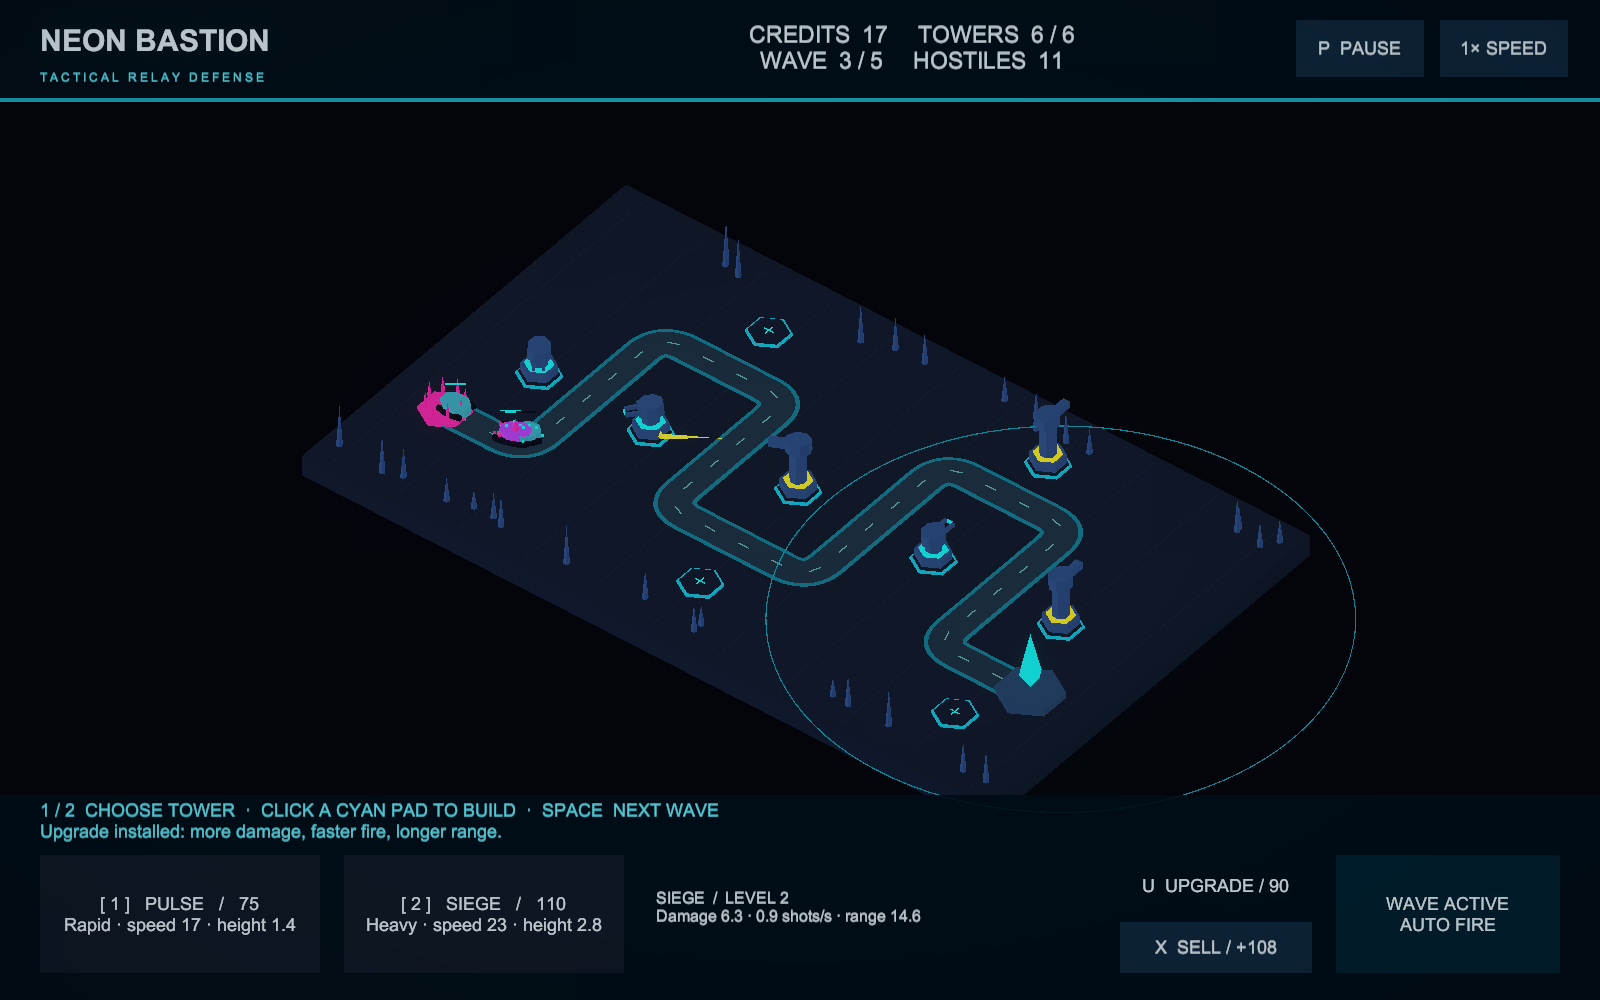
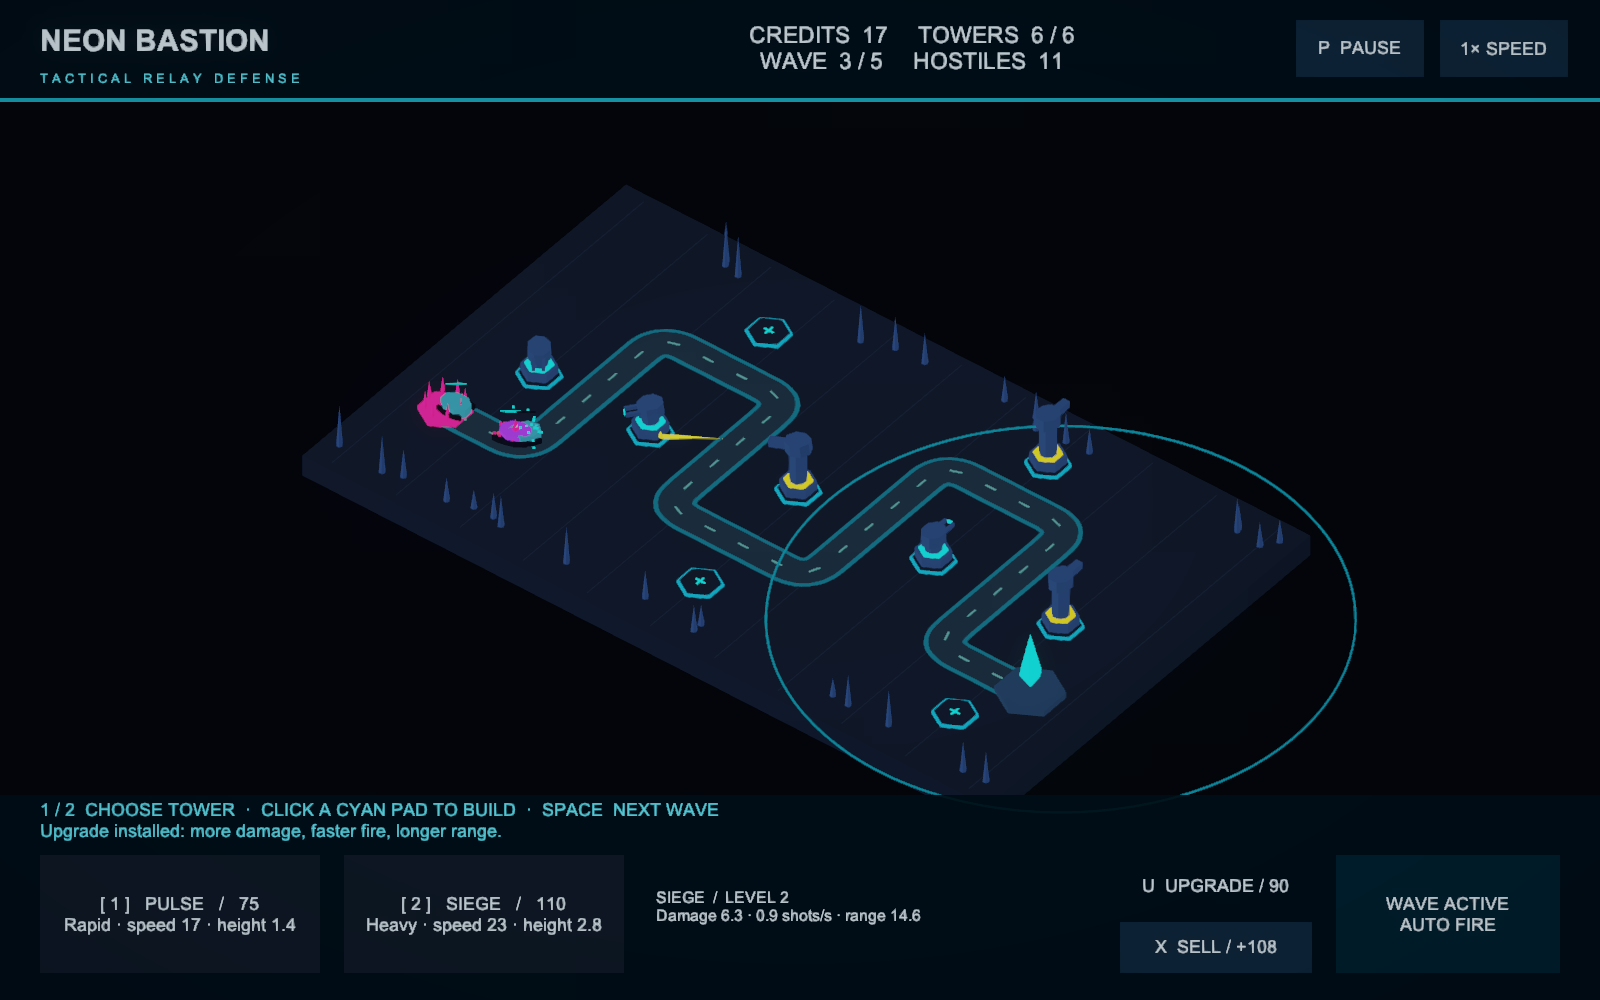
Improve native-resolution rendering and smooth neon edges

diff --git a/Assets/Defense/DefenseArt.cs b/Assets/Defense/DefenseArt.cs
@@ -157,7 +157,7 @@ public static class DefenseArt
         for(float distance=1;distance<game.Route.Length;distance+=2.1f)
         {
             Vector3 point=game.Route.Position(distance)+Vector3.up*.065f;
-            GameObject dash=Box(root,"Route dash",point,new Vector3(.07f,.02f,.65f),ColorMaterial("Route markers",new Color(.35f,.65f,.65f)));
+            GameObject dash=Box(root,"Route dash",point,new Vector3(.11f,.02f,.65f),ColorMaterial("Route markers",new Color(.35f,.65f,.65f)));
             dash.transform.rotation=Quaternion.LookRotation(game.Route.Tangent(distance));
         }
         for(int i=0;i<game.Pads.Length;i++)
@@ -165,8 +165,8 @@ public static class DefenseArt
             Vector3 position=game.Pads[i];
             Shape(root,"Build pad "+(i+1),"HexPlatform",position,new Vector3(1.2f,.25f,1.2f),ColorMaterial("Pad glow",new Color(.08f,.75f,.9f)));
             Shape(root,"Pad inset","HexPlatform",position+Vector3.up*.08f,new Vector3(1.05f,.25f,1.05f),ground);
-            Box(root,"Pad plus",position+Vector3.up*.16f,new Vector3(.6f,.02f,.07f),ColorMaterial("Pad symbols",Cyan));
-            Box(root,"Pad plus",position+Vector3.up*.17f,new Vector3(.07f,.02f,.6f),ColorMaterial("Pad symbols",Cyan));
+            Box(root,"Pad plus",position+Vector3.up*.16f,new Vector3(.6f,.02f,.11f),ColorMaterial("Pad symbols",Cyan));
+            Box(root,"Pad plus",position+Vector3.up*.17f,new Vector3(.11f,.02f,.6f),ColorMaterial("Pad symbols",Cyan));
         }
         Vector3 end=game.Route.Position(game.Route.Length), start=game.Route.Position(0);
         Shape(root,"Relay platform","HexPlatform",end+Vector3.up*.1f,new Vector3(1.8f,.8f,1.8f),ColorMaterial("Relay metal",new Color(.14f,.25f,.38f)));
@@ -184,7 +184,7 @@ public static class DefenseArt
             float z=(i%2==0 ? 1 : -1)*(10.8f+(float)random.NextDouble());
             Shape(root,"Border crystal","Spire",new Vector3(x,0,z),new Vector3(.3f,.5f+(float)random.NextDouble(),.3f),ColorMaterial("Scenery crystal",new Color(.16f,.28f,.5f)));
         }
-        for(int x=-20;x<=20;x+=4) Box(root,"Terrain circuit",new Vector3(x,-.035f,0),new Vector3(.025f,.02f,25),ColorMaterial("Grid",new Color(.085f,.14f,.22f)));
+        for(int x=-20;x<=20;x+=4) Box(root,"Terrain circuit",new Vector3(x,-.035f,0),new Vector3(.045f,.02f,25),ColorMaterial("Grid",new Color(.085f,.14f,.22f)));
         GameObject volumeObject=new GameObject("Neon glow volume");volumeObject.transform.SetParent(root,false);
         Volume volume=volumeObject.AddComponent<Volume>();volume.isGlobal=true;
         volume.profile=ScriptableObject.CreateInstance<VolumeProfile>();
@@ -195,7 +195,7 @@ public static class DefenseArt
     {
         GameObject root=new GameObject(name,typeof(LineRenderer));root.transform.SetParent(parent,false);
         LineRenderer line=root.GetComponent<LineRenderer>();line.useWorldSpace=true;line.sharedMaterial=ColorMaterial(name,color);
-        line.widthMultiplier=.06f;line.positionCount=97;
+        line.widthMultiplier=.11f;line.positionCount=97;
         return line;
     }
     public static void SetRing(LineRenderer ring,Vector3 center,float radius)

diff --git a/Assets/Defense/Editor/DefenseGameViewQuality.cs b/Assets/Defense/Editor/DefenseGameViewQuality.cs
@@ -1,0 +1,45 @@
+using System.Reflection;
+using UnityEditor;
+using UnityEngine;
+
+// Unity's low-resolution Game view can magnify every rendered pixel on Retina displays.
+// Keep this project sharp without changing the user's desktop display resolution.
+public static class DefenseGameViewQuality
+{
+    private const string SessionKey="NeonBastionNativeResolution";
+    [InitializeOnLoadMethod]
+    private static void Schedule()
+    {
+        if(Application.isBatchMode || SessionState.GetBool(SessionKey,false)) return;
+        EditorApplication.delayCall+=Apply;
+    }
+
+    [MenuItem("Tools/Neon Bastion/Sharpen Game View")]
+    public static void Apply()
+    {
+        System.Type type=typeof(EditorWindow).Assembly.GetType("UnityEditor.GameView");
+        if(type==null) return;
+        foreach(Object window in Resources.FindObjectsOfTypeAll(type))
+        {
+            var flags=BindingFlags.Instance|BindingFlags.Public|BindingFlags.NonPublic;
+            PropertyInfo lowResolution=type.GetProperty("lowResolutionForAspectRatios",flags);
+            if(lowResolution!=null && lowResolution.CanWrite) lowResolution.SetValue(window,false);
+            SerializedObject data=new SerializedObject(window);
+            SerializedProperty resolutions=data.FindProperty("m_LowResolutionForAspectRatios");
+            if(resolutions!=null && resolutions.isArray)
+                for(int i=0;i<resolutions.arraySize;i++)
+                {
+                    SerializedProperty item=resolutions.GetArrayElementAtIndex(i);
+                    if(item.propertyType==SerializedPropertyType.Boolean) item.boolValue=false;
+                    else if(item.propertyType==SerializedPropertyType.Integer) item.intValue=0;
+                }
+            SerializedProperty zoom=data.FindProperty("m_ZoomArea.m_Scale");
+            if(zoom!=null && zoom.propertyType==SerializedPropertyType.Vector2) zoom.vector2Value=Vector2.one;
+            SerializedProperty defaultZoom=data.FindProperty("m_defaultScale");
+            if(defaultZoom!=null && defaultZoom.propertyType==SerializedPropertyType.Float) defaultZoom.floatValue=1f;
+            data.ApplyModifiedPropertiesWithoutUndo();
+            ((EditorWindow)window).Repaint();
+        }
+        SessionState.SetBool(SessionKey,true);
+    }
+}

diff --git a/Assets/Defense/DefenseHUD.cs b/Assets/Defense/DefenseHUD.cs
@@ -15,7 +15,7 @@ public class DefenseHUD : MonoBehaviour
     public void Initialize(DefenseGame owner)
     {
         game=owner;font=Resources.GetBuiltinResource<Font>("LegacyRuntime.ttf");
-        Canvas canvas=gameObject.AddComponent<Canvas>();canvas.renderMode=RenderMode.ScreenSpaceOverlay;
+        Canvas canvas=gameObject.AddComponent<Canvas>();canvas.renderMode=RenderMode.ScreenSpaceOverlay;canvas.pixelPerfect=true;
         CanvasScaler scale=gameObject.AddComponent<CanvasScaler>();scale.uiScaleMode=CanvasScaler.ScaleMode.ScaleWithScreenSize;scale.referenceResolution=new Vector2(1440,900);scale.matchWidthOrHeight=.5f;
         gameObject.AddComponent<GraphicRaycaster>();
         Panel("Top rail",transform,0,.90f,1,1,surface);
@@ -79,7 +79,7 @@ public class DefenseHUD : MonoBehaviour
     {
         GameObject item=new GameObject(name,typeof(RectTransform),typeof(Text));item.transform.SetParent(parent,false);Rect(item,x0,y0,x1,y1);
         Text text=item.GetComponent<Text>();text.font=font;text.text=value;text.fontSize=size;text.color=new Color(.86f,.94f,1f);text.alignment=alignment;
-        text.raycastTarget=false;text.resizeTextForBestFit=true;text.resizeTextMinSize=10;text.resizeTextMaxSize=size;return text;
+        text.raycastTarget=false;text.resizeTextForBestFit=true;text.resizeTextMinSize=12;text.resizeTextMaxSize=size;return text;
     }
     private Button MakeButton(string name,Transform parent,float x0,float y0,float x1,float y1,string caption,UnityEngine.Events.UnityAction action)
     {

diff --git a/Assets/Defense/DefenseGame.cs b/Assets/Defense/DefenseGame.cs
@@ -46,7 +46,11 @@ public class DefenseGame : MonoBehaviour
         View=cameraObject.GetComponent<Camera>();View.transform.position=new Vector3(27,38,-35);
         View.transform.LookAt(new Vector3(0,0,-.5f));View.orthographic=true;View.nearClipPlane=.1f;View.farClipPlane=180;
         View.clearFlags=CameraClearFlags.SolidColor;View.backgroundColor=new Color(.012f,.018f,.045f);View.allowHDR=true;
-        View.GetUniversalAdditionalCameraData().renderPostProcessing=true;
+        View.allowMSAA=true;View.allowDynamicResolution=false;
+        UniversalAdditionalCameraData cameraData=View.GetUniversalAdditionalCameraData();
+        cameraData.renderPostProcessing=true;
+        cameraData.antialiasing=AntialiasingMode.SubpixelMorphologicalAntiAliasing;
+        cameraData.antialiasingQuality=AntialiasingQuality.High;
         FitCamera();
         battlefield=new GameObject("Battlefield").transform;
         DefenseArt.World(this,battlefield);

diff --git a/Assets/Defense/Editor/DefenseValidation.cs b/Assets/Defense/Editor/DefenseValidation.cs
@@ -162,7 +162,7 @@ public static class DefenseValidation
         Camera camera=game.View;Canvas canvas=game.HUD.GetComponent<Canvas>();
         RenderTexture previous=camera.targetTexture,oldActive=RenderTexture.active;
         RenderMode mode=canvas.renderMode;Camera oldCamera=canvas.worldCamera;float oldDistance=canvas.planeDistance;
-        RenderTexture target=new RenderTexture(1600,1000,24,RenderTextureFormat.ARGB32);Texture2D image=new Texture2D(1600,1000,TextureFormat.RGB24,false);
+        RenderTexture target=new RenderTexture(1600,1000,24,RenderTextureFormat.ARGB32);target.antiAliasing=4;Texture2D image=new Texture2D(1600,1000,TextureFormat.RGB24,false);
         try
         {
             camera.targetTexture=target;canvas.renderMode=RenderMode.ScreenSpaceCamera;canvas.worldCamera=camera;canvas.planeDistance=1;

diff --git a/README.md b/README.md
@@ -74,3 +74,7 @@ Upload the entire project folder using GitHub Desktop, including `Assets` with a
 ## Asset attribution
 
 The new game models, environment meshes and shader are created in code for this project; no outside art packs were downloaded. Unity's built-in shapes supplement the custom meshes. Starter files and package dependencies remain from the provided Tower-Projectiles project. Read the code and adapt the explanations to your course's attribution requirements before presenting it.
+
+## Sharp Game view on Retina displays
+
+If the whole image or text looks pixelated, stop Play mode, let Unity finish recompiling, then choose **Tools → Neon Bastion → Sharpen Game View** and press Play again. This disables the editor's low-resolution preview and resets its zoom. The project uses native render scale, 4x MSAA and high-quality SMAA; canvas elements snap to pixels, and fine world lines are thickened to avoid disappearing between pixels. Player builds use the render settings without relying on the editor helper.
